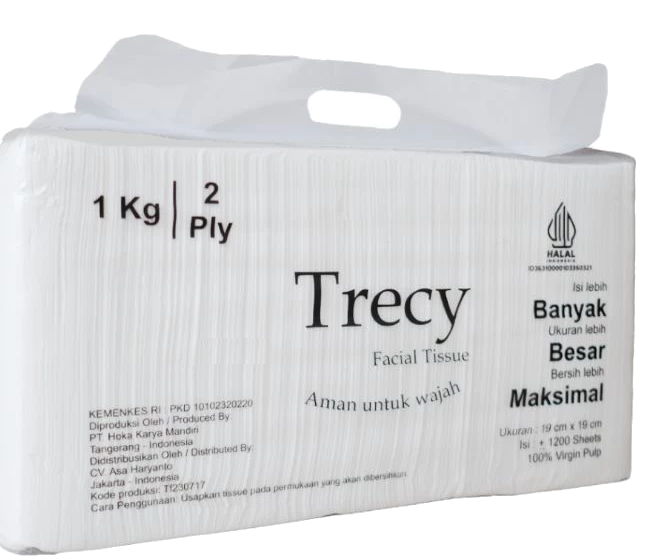
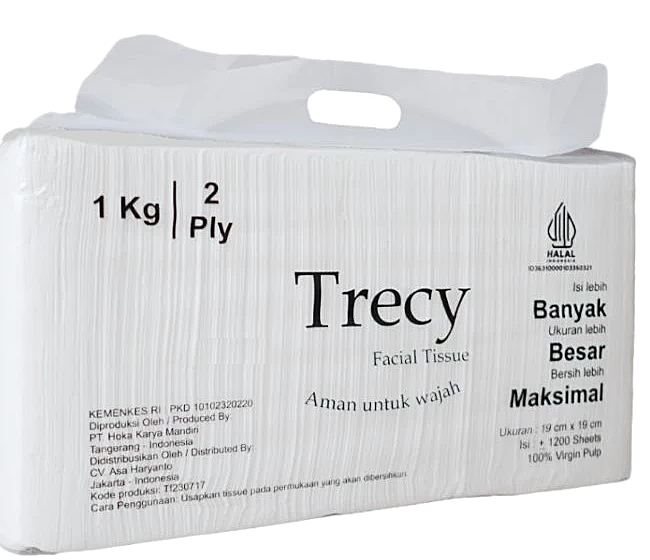
Sharpen all product photos and animate the slideshow
Slides now enter and leave in the direction of travel, the active
product floats gently, and the active dot fills up as a countdown to the
next slide.

diff --git a/src/index.css b/src/index.css
@@ -179,16 +179,29 @@ p { margin: 0; }
 /* Slideshow produk */
 .slider { position: relative; margin: 0 auto 32px; max-width: 880px; }
 .slider-stage { position: relative; aspect-ratio: 16 / 9; }
-.slide { position: absolute; inset: 8% 15% 14%; width: 70%; height: 78%; object-fit: contain; opacity: 0; transform: translateX(6%) scale(0.96); transition: opacity .7s ease, transform .9s cubic-bezier(.2, .7, .2, 1); filter: drop-shadow(0 24px 30px rgba(60, 30, 35, 0.16)); pointer-events: none; }
-.slide.is-active { opacity: 1; transform: none; }
-.slider-shadow { position: absolute; left: 26%; right: 26%; bottom: 7%; height: 26px; border-radius: 50%; background: radial-gradient(closest-side, rgba(60, 30, 35, 0.22), transparent); filter: blur(4px); }
+.slide { position: absolute; inset: 8% 15% 14%; width: 70%; height: 78%; object-fit: contain; opacity: 0; filter: drop-shadow(0 24px 30px rgba(60, 30, 35, 0.16)); pointer-events: none; }
+/* masuk dari arah --dir, lalu melayang pelan; slide lama keluar ke arah sebaliknya */
+.slide.is-active { opacity: 1; animation: slide-in 1s cubic-bezier(.2, .7, .2, 1) both, slide-float 6s ease-in-out 1s infinite; }
+.slide.is-leaving { animation: slide-out .7s cubic-bezier(.5, 0, .75, 0) both; }
+@keyframes slide-in { from { opacity: 0; transform: translateX(calc(var(--dir) * 18%)) rotate(calc(var(--dir) * 3deg)) scale(0.9); } }
+@keyframes slide-out { to { opacity: 0; transform: translateX(calc(var(--dir) * -18%)) rotate(calc(var(--dir) * -3deg)) scale(0.9); } }
+@keyframes slide-float { 50% { translate: 0 -10px; } }
+.slider-shadow { position: absolute; left: 26%; right: 26%; bottom: 7%; height: 26px; border-radius: 50%; background: radial-gradient(closest-side, rgba(60, 30, 35, 0.22), transparent); filter: blur(4px); animation: shadow-breathe 6s ease-in-out 1s infinite; }
+@keyframes shadow-breathe { 50% { transform: scaleX(0.86); opacity: 0.7; } }
 .slider-arrow { position: absolute; top: 44%; width: 48px; height: 48px; border-radius: 50%; border: 1px solid var(--line); background: #fff; color: var(--ink); font-size: 1.6rem; line-height: 1; cursor: pointer; display: grid; place-items: center; padding-bottom: 3px; box-shadow: 0 8px 20px -10px rgba(24, 24, 27, 0.25); transition: color .2s, border-color .2s, transform .2s; }
 .slider-arrow:hover { color: var(--maroon); border-color: var(--maroon); transform: scale(1.06); }
 .slider-prev { left: 0; }
 .slider-next { right: 0; }
 .slider-dots { display: flex; justify-content: center; gap: 8px; }
 .slider-dots button { width: 8px; height: 8px; padding: 0; border: 0; border-radius: 999px; background: #dccdcf; cursor: pointer; transition: width .3s, background .3s; }
-.slider-dots button.is-active { width: 28px; background: var(--maroon); }
+.slider-dots button.is-active { position: relative; overflow: hidden; width: 36px; background: #e6d3d5; }
+/* titik aktif terisi selama 4 detik = waktu menuju slide berikutnya */
+.slider-dots button.is-active::after { content: ''; position: absolute; inset: 0; border-radius: inherit; background: var(--maroon); transform-origin: left; animation: dot-progress 4s linear both; }
+.slider.is-paused .slider-dots button.is-active::after { animation: none; }
+@keyframes dot-progress { from { transform: scaleX(0); } }
+@media (prefers-reduced-motion: reduce) {
+  .slide.is-active, .slide.is-leaving, .slider-shadow, .slider-dots button.is-active::after { animation: none; }
+}
 
 /* Products */
 .products-note { margin-top: 0; padding: 28px 32px; border: 1px dashed #dccdcf; border-radius: 16px; display: flex; align-items: center; justify-content: space-between; gap: 16px 32px; flex-wrap: wrap; }

diff --git a/src/components/Sections.jsx b/src/components/Sections.jsx
@@ -198,26 +198,32 @@ export function Features() {
 }
 
 function ProductSlider({ items }) {
-  const [index, setIndex] = useState(0)
+  // `dir` menentukan arah geser: 1 = ke kiri (berikutnya), -1 = ke kanan (sebelumnya)
+  const [{ index, prev, dir }, setState] = useState({ index: 0, prev: null, dir: 1 })
   const [paused, setPaused] = useState(false)
   const touch = useRef(null)
-  const go = (i) => setIndex((i + items.length) % items.length)
+  const go = (i, d) => setState((s) => {
+    const next = (i + items.length) % items.length
+    if (next === s.index) return s
+    return { index: next, prev: s.index, dir: d ?? (next > s.index ? 1 : -1) }
+  })
 
   useEffect(() => {
     if (paused || window.matchMedia('(prefers-reduced-motion: reduce)').matches) return
-    const timer = setInterval(() => setIndex((i) => (i + 1) % items.length), 4000)
+    const timer = setInterval(() => go(index + 1, 1), 4000)
     return () => clearInterval(timer)
-  }, [paused, items.length])
+  }, [paused, index, items.length])
 
   return (
     <div
-      className="slider reveal"
+      className={`slider reveal ${paused ? 'is-paused' : ''}`}
+      style={{ '--dir': dir }}
       onMouseEnter={() => setPaused(true)}
       onMouseLeave={() => setPaused(false)}
       onTouchStart={(e) => { touch.current = e.touches[0].clientX; setPaused(true) }}
       onTouchEnd={(e) => {
         const dx = e.changedTouches[0].clientX - (touch.current ?? 0)
-        if (Math.abs(dx) > 40) go(index + (dx < 0 ? 1 : -1))
+        if (Math.abs(dx) > 40) go(index + (dx < 0 ? 1 : -1), dx < 0 ? 1 : -1)
         setPaused(false)
       }}
     >
@@ -225,7 +231,7 @@ function ProductSlider({ items }) {
         {items.map((p, i) => (
           <img
             key={p.src}
-            className={`slide ${i === index ? 'is-active' : ''}`}
+            className={`slide ${i === index ? 'is-active' : i === prev ? 'is-leaving' : ''}`}
             src={p.src}
             alt={p.alt}
             aria-hidden={i !== index}
@@ -233,11 +239,12 @@ function ProductSlider({ items }) {
         ))}
         <div className="slider-shadow" aria-hidden="true" />
       </div>
-      <button className="slider-arrow slider-prev" onClick={() => go(index - 1)} aria-label="Produk sebelumnya">‹</button>
-      <button className="slider-arrow slider-next" onClick={() => go(index + 1)} aria-label="Produk berikutnya">›</button>
+      <button className="slider-arrow slider-prev" onClick={() => go(index - 1, -1)} aria-label="Produk sebelumnya">‹</button>
+      <button className="slider-arrow slider-next" onClick={() => go(index + 1, 1)} aria-label="Produk berikutnya">›</button>
       <div className="slider-dots">
         {items.map((p, i) => (
-          <button key={p.src} className={i === index ? 'is-active' : ''} onClick={() => go(i)} aria-label={`Tampilkan ${p.alt}`} />
+          // key berubah agar progres titik aktif mulai ulang tiap ganti slide / jeda
+          <button key={i === index ? `${p.src}-${paused}` : p.src} className={i === index ? 'is-active' : ''} onClick={() => go(i)} aria-label={`Tampilkan ${p.alt}`} />
         ))}
       </div>
     </div>
